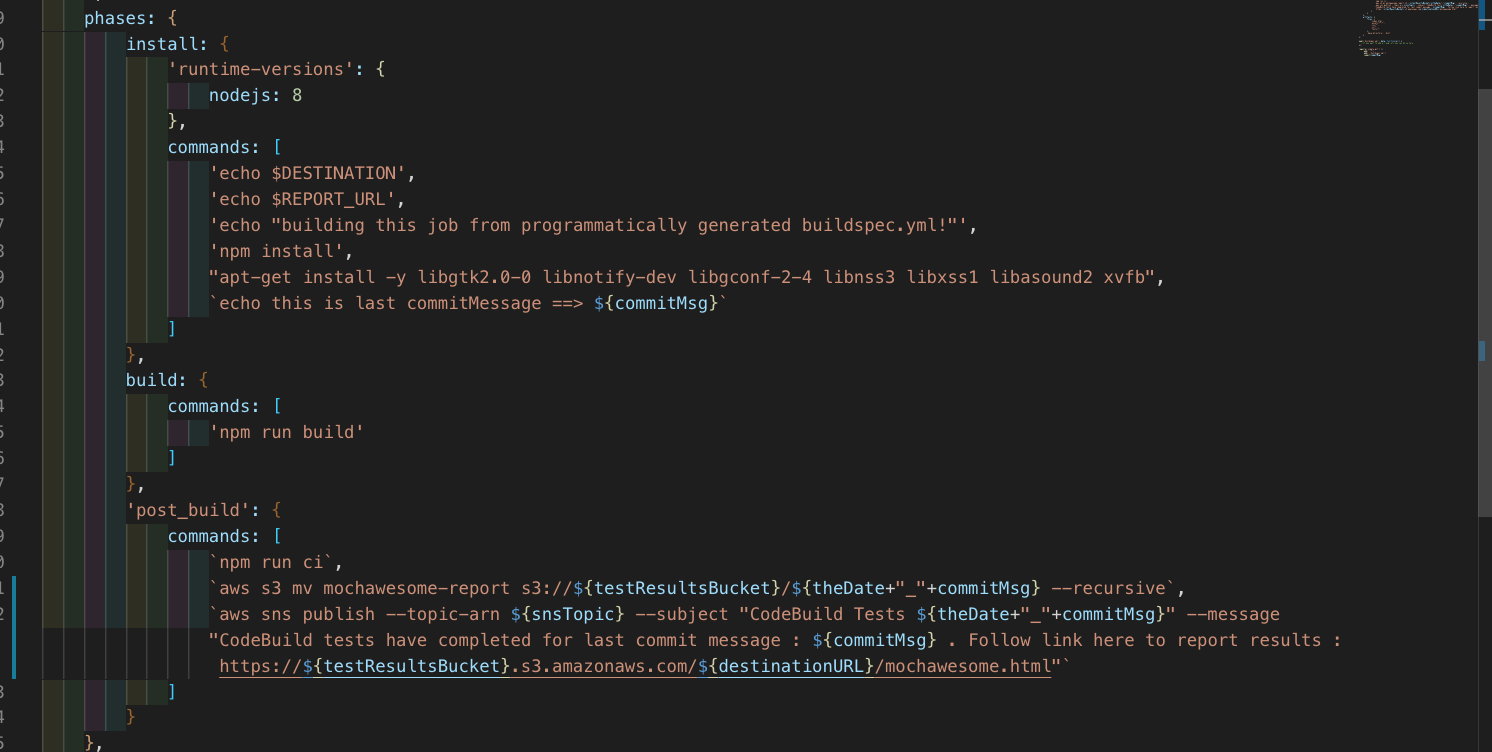
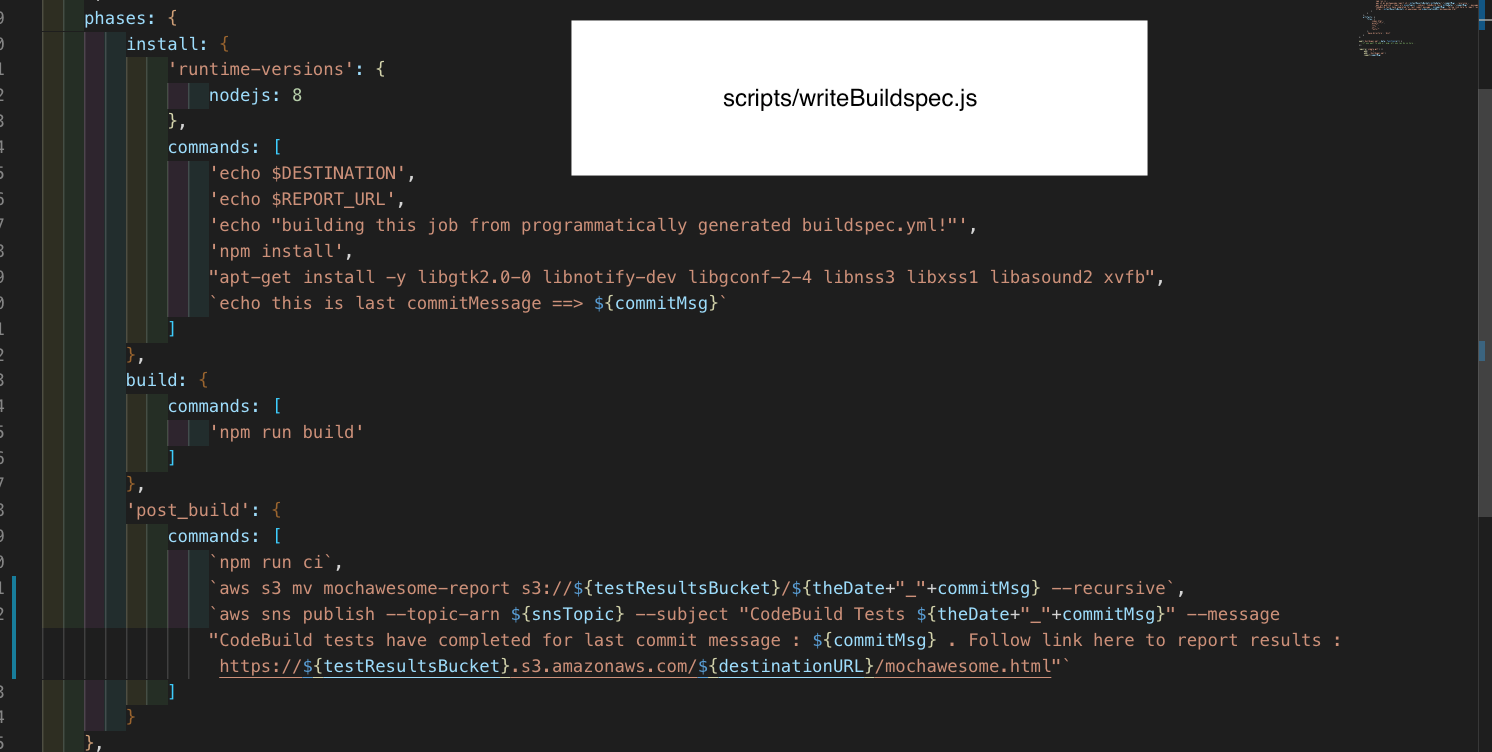
continue_section_3

Changed region(s): [[0.37, 0.0, 0.7708, 0.2447]]

diff --git a/src/components/p3.vue b/src/components/p3.vue
@@ -4,9 +4,21 @@
     <v-card>
       <v-card-text class="p0card">
         <p>3.1 - At the end of the last section, you might have noticed the last section of the buildspec.yml file is the post_build section. At that point, the 'npm run ci' line is run, which starts up a server at localhost:8080 in the CodeBuild virtual environment. Once the localhost:8080 is up and running, and serves our build and runs the the cypress tests located at cypress/integration.</p>
-        <img src="img/Screen Shot 2019-06-27 at 10.06.50 AM.png" class=walkthroughPix>
-
-        
+        <img src="img/Screen Shot 2019-06-27 at 10.26.34 AM.png" class=walkthroughPix>
+        <p>In this template, the buildspec.yml file is rewritten by the scripts/writeBuildspec.js file everytime the <code>$ npm run git "YOUR COMMIT MESSAGE"</code> command is run. This is achieved by use of the <a href="https://www.npmjs.com/package/simple-git"><strong>simple-git</strong></a> and <a href="https://www.npmjs.com/package/write-yaml"><strong>write-yaml</strong></a> packages.</p>
+        <p>Conveniently, this ensures that directory where your test results reside is given a name that timestamped and marked with the last commit message you made on your repository.</p>
+        <p>However, as mentioned, when using this process, you will want to make sure that your commit messages <strong>ONLY INCLUDE</strong> alphanumeric characters, spaces, dashes and underscores! Doing so will create an invalid directory name in S3. You can see in the picture <strong>above</strong> that the directory "2019-06-27_10-26_update_writeBuildspec.js" would actually fail due to the period.</p>
+        <img src="img/Screen Shot 2019-06-27 at 10.26.01 AM.png" class=walkthroughPix>
+      </v-card-text>
+    </v-card>
+  </div>
+  <div>
+    <v-card>
+      <v-card-text class="p0card">
+        <p>3.2 - However, we have not yet created a bucket for where our test results should be delivered by CodeBuild. We will want to do that now.</p> 
+        <p>Navigate to <a href="https://s3.console.aws.amazon.com/s3/">AWS S3 console</a> and create a bucket like below.</p>
+        <p>Make sure that you keep all your regions the same!</p>
+        <img src="img/Screen Shot 2019-06-27 at 10.37.23 AM.png" class=walkthroughPix>        
       </v-card-text>
     </v-card>
   </div>
